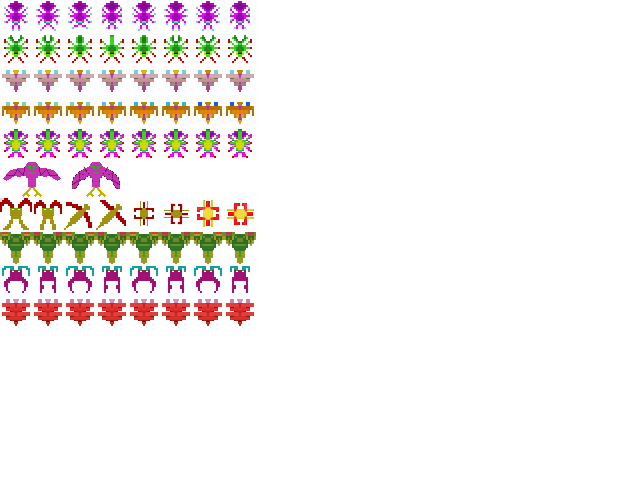
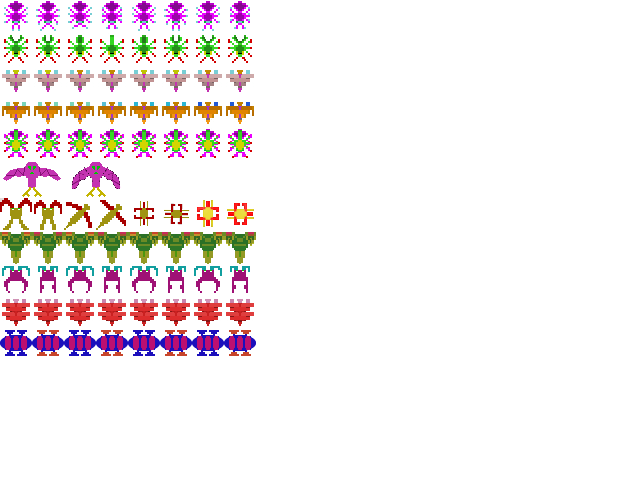
Add files via upload

Changed region(s): [[0.0, 0.6875, 0.4062, 0.75]]

diff --git a/src/enemy.js b/src/enemy.js
@@ -48,6 +48,8 @@ export default class Enemy {
       this.sourceY = 296;
     } else if (this.enemyType === 7) {
       this.sourceY = 196;
+    } else if (this.enemyType === 8) {
+      this.sourceY = 328;
     }
 
     this.numberOfFrames = 8;
